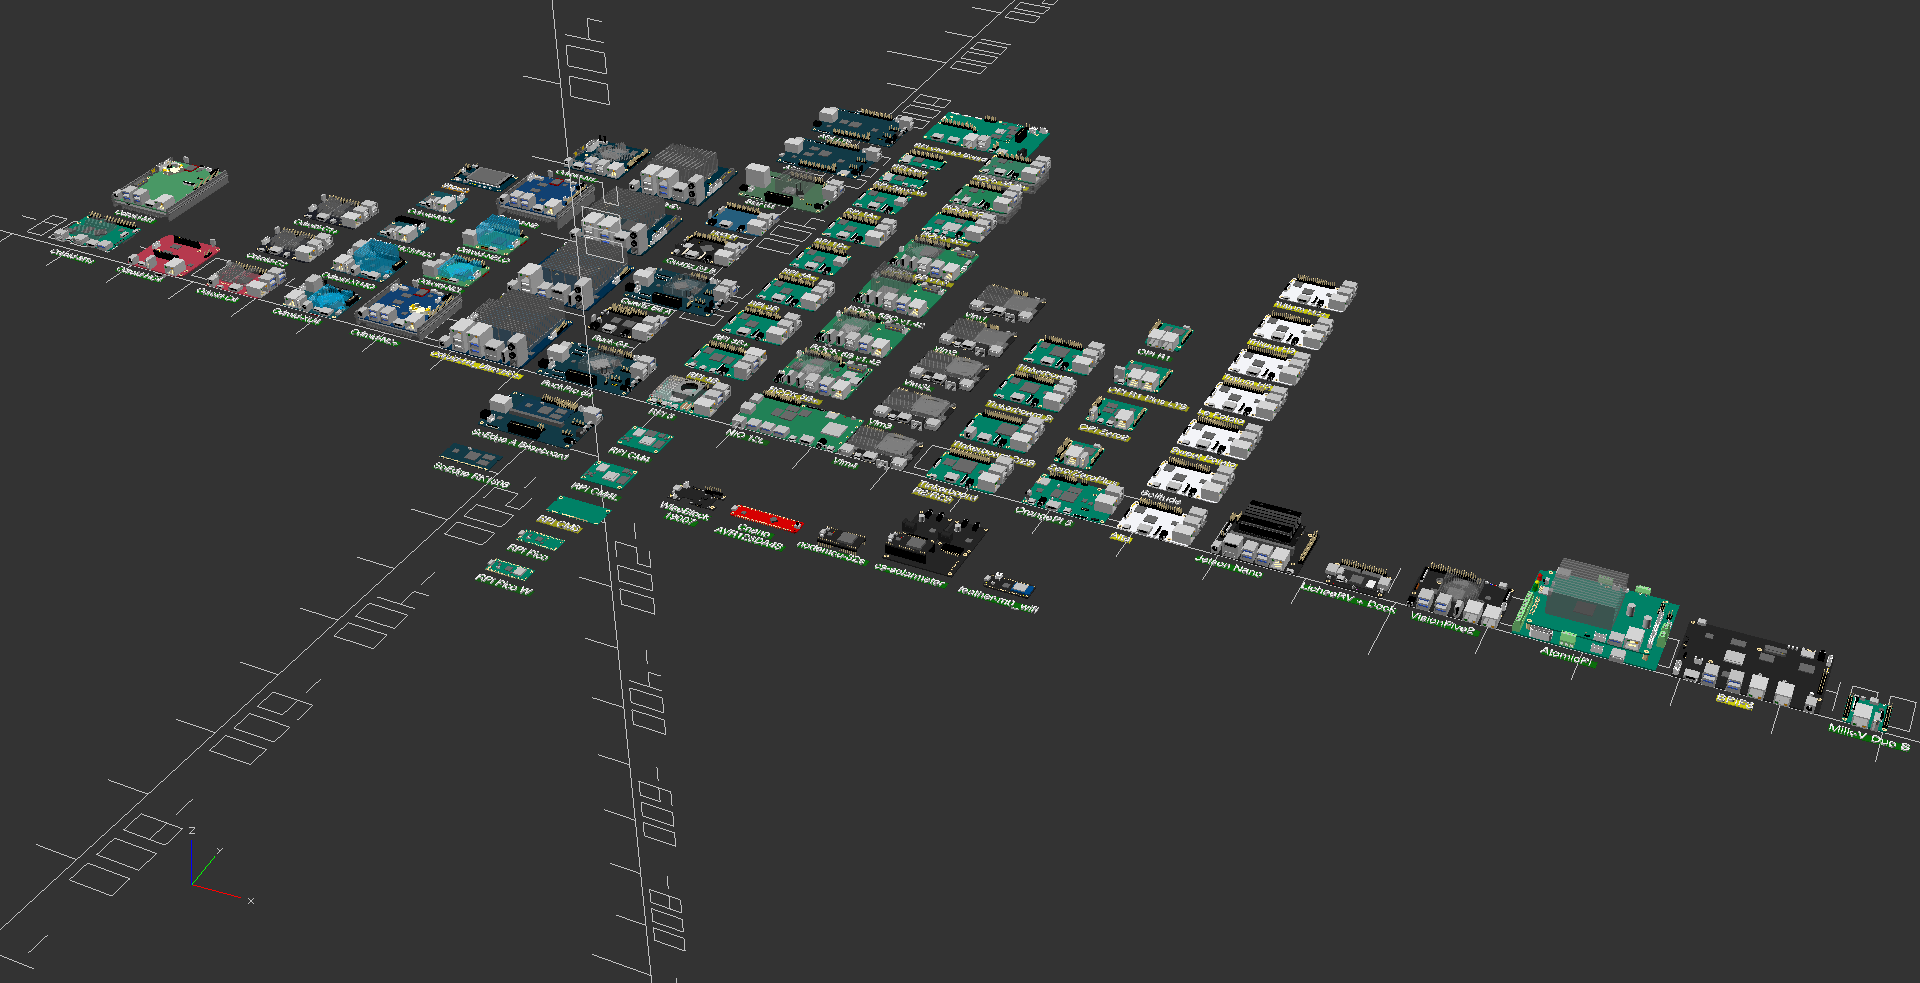
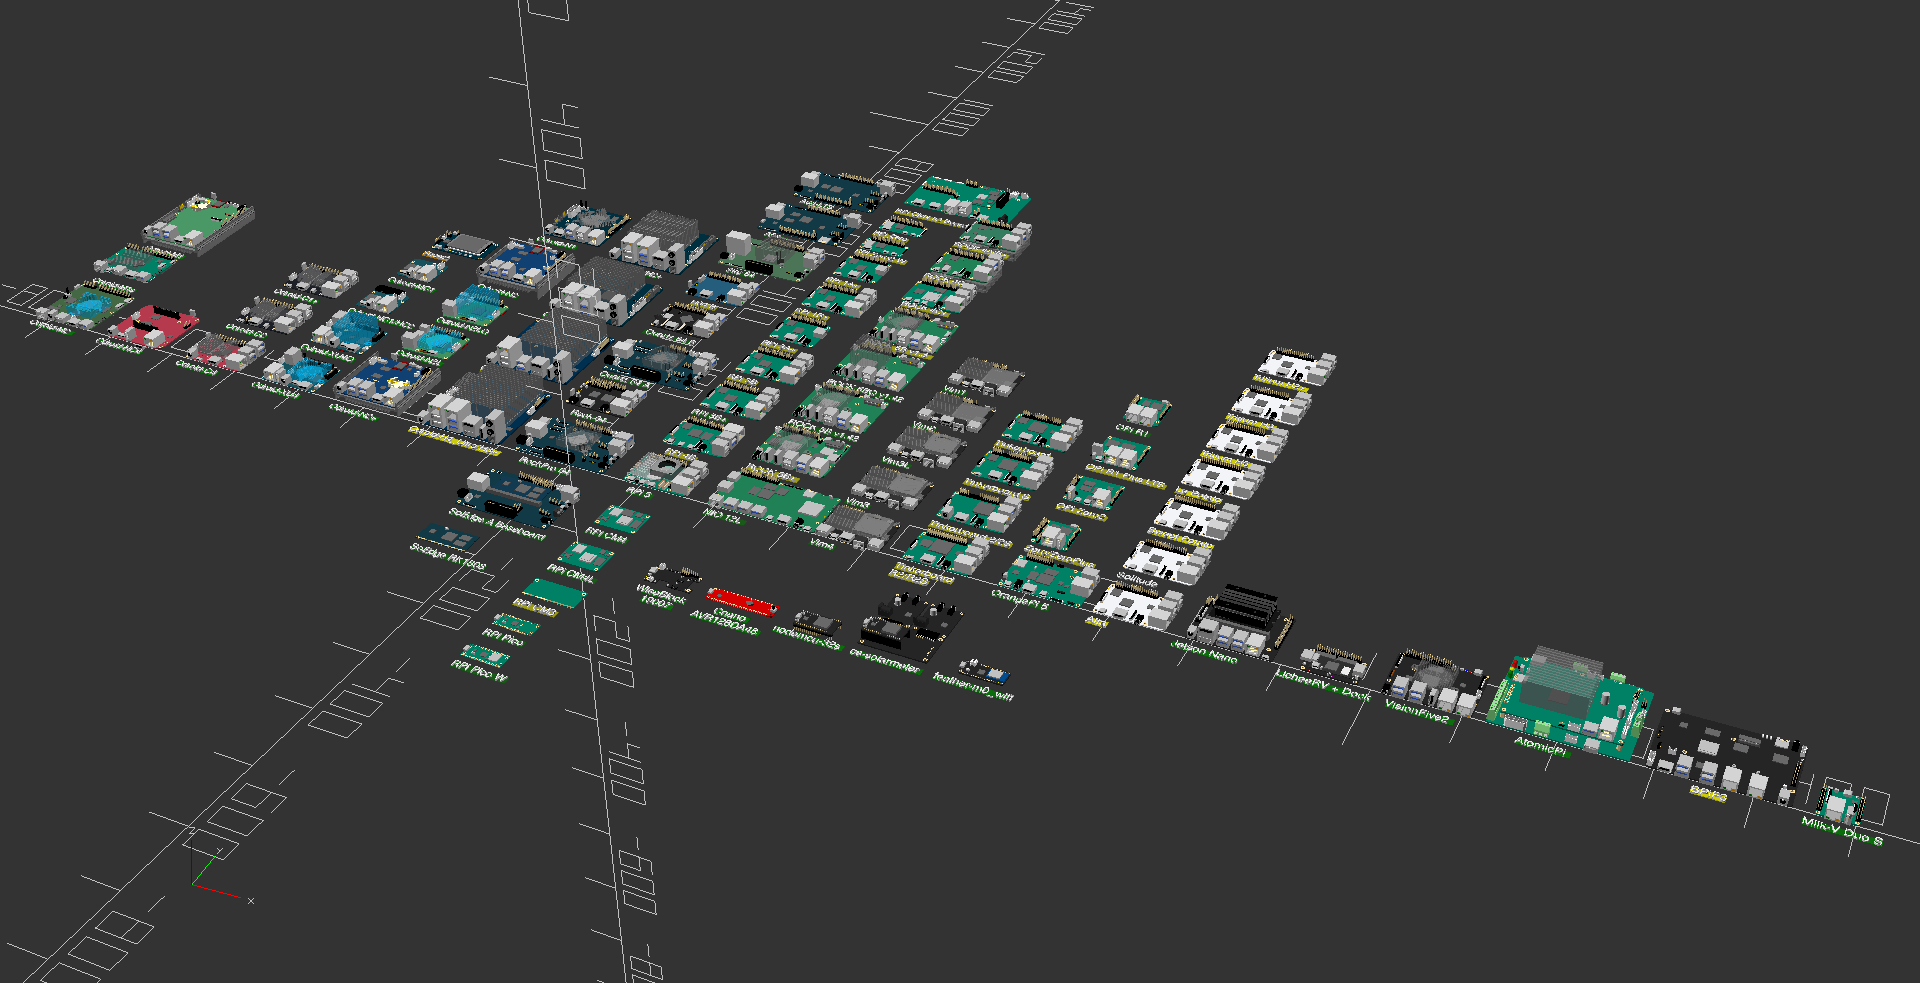
finalized m2 to green verified and updated documentation

diff --git a/README.md b/README.md
@@ -12,13 +12,13 @@ SBC Model Framework provides 3D models of SBC, MCU, Compute Modules and Carrier 
 ### Current Library
 
 ```
-                  SBC:  78
+                  SBC:  79
        Carrier Boards:   4
       Compute Modules:   9
     Micro Controllers:   7
 Standard Motherboards:  14
            Custom PCB:   1
-        Total Devices: 113
+        Total Devices: 114
 ```
 
 ## Using SBC Model Framework
@@ -34,7 +34,7 @@ sbc("rpi5");
 USAGE: sbc(model, enableheatsink = "default", fansize = 0, enablegpio =  "default", enableuart =  "default", enablemask = false)
 
          model = "c1+","c2","c4","xu4","xu4q","mc1","hc1","hc4","n1","n2","n2+","n2l","n2lq",
-                 "m1","m1s","h2","h2+","h3","h3+","h4","h4+","h4_ultra","show2",
+                 "m1","m1s","m2","h2","h2+","h3","h3+","h4","h4+","h4_ultra","show2",
                  "rpipicow","rpipicow","rpizero","rpizero2w","rpi1a+","rpi1b+","rpi3a+","rpi3b","rpi3b+","rpi4b","rpi5",
                  "rpicm1","rpicm3","rpicm3l","rpicm3+","rpicm4","rpicm4l","rpicm1","rpicm4+ioboard",
                  "a64","a64lts","rock64","rockpro64","quartz64a","quartz64b","h64b","star64","soedge_rk1808","soedge_a-baseboard"
